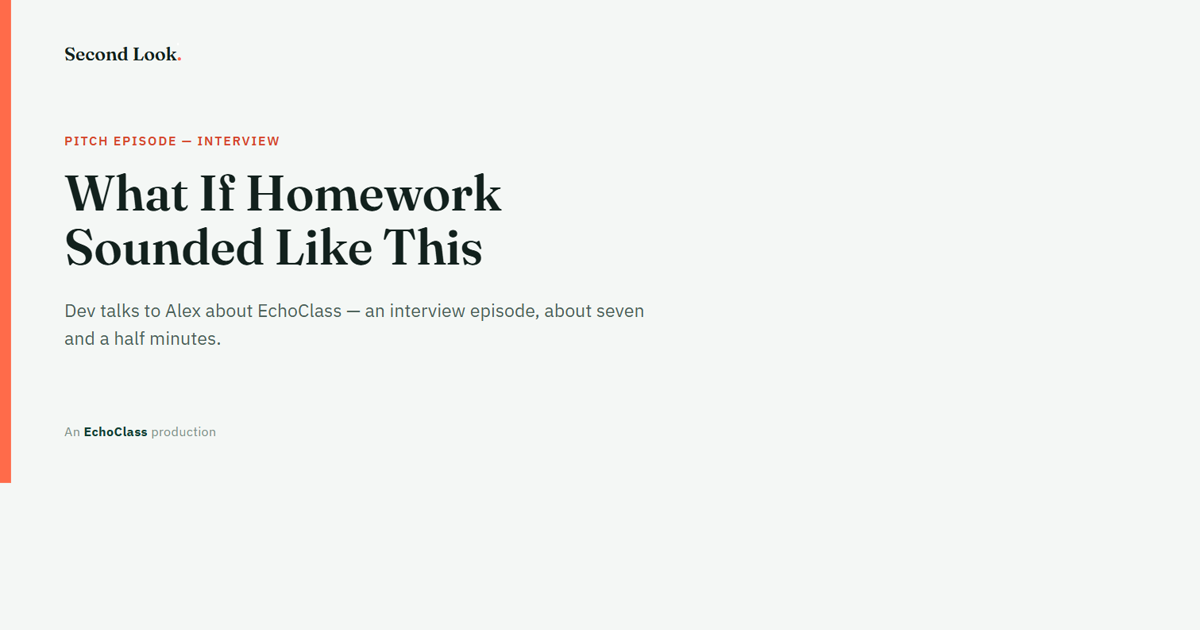
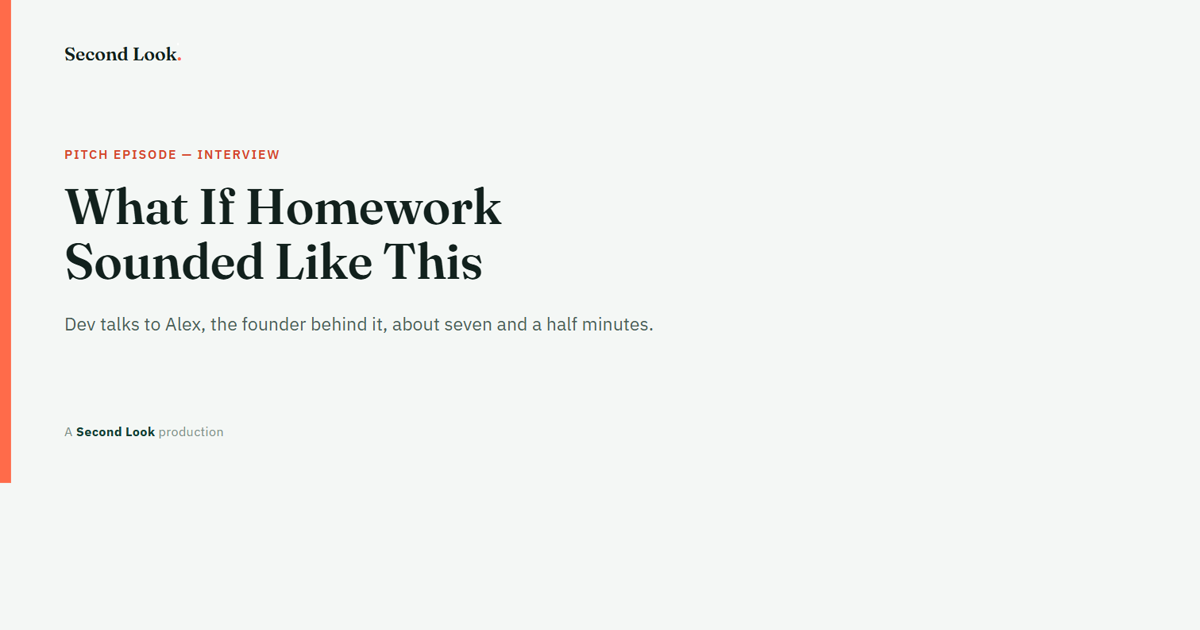
Rebrand from EchoClass to Second Look across all pages
EchoClass is already an existing company's name in this space. "Second Look"
was already established as the pitch episode's in-universe podcast name and
is well-liked, so it now doubles as the umbrella brand instead of introducing
a third name.

Swapped everywhere user-facing: page titles, OG/Twitter meta, footer copy,
the shared favicon (now an "S." monogram), and the two OG preview images
(regenerated from their HTML sources). Reworded "EchoClass's founder" to
"the founder behind it" on the pitch page rather than doing a literal
find-replace, since "Second Look's founder" would read as Alex having
founded the podcast Dev hosts, not her product.

Deliberately left untouched: the GitHub repo name, the live URL
(jarradkevin.github.io/echoclass-audio/...), the Firebase project, and the
Firestore collection name — renaming any of those breaks already-shared
links and is a separate, bigger decision.

Changed region(s): [[0.0308, 0.2111, 0.4317, 0.4524], [0.0308, 0.4825, 0.555, 0.5429], [0.0617, 0.6635, 0.185, 0.6937]]

diff --git a/webapp/index.html b/webapp/index.html
@@ -2,7 +2,7 @@
 <html lang="en">
 <head>
 <meta charset="utf-8" />
-<title>EchoClass — What's Actually Inside You Right Now</title>
+<title>Second Look — What's Actually Inside You Right Now</title>
 <meta name="viewport" content="width=device-width, initial-scale=1" />
 <meta name="description" content="BC Science 8 lesson episode: cells, with a synced transcript and end-of-episode quiz." />
 <link rel="canonical" href="https://jarradkevin.github.io/echoclass-audio/webapp/index.html" />
@@ -10,18 +10,18 @@
 
 <!-- Open Graph -->
 <meta property="og:type" content="website" />
-<meta property="og:site_name" content="EchoClass" />
-<meta property="og:title" content="EchoClass — What's Actually Inside You Right Now" />
+<meta property="og:site_name" content="Second Look" />
+<meta property="og:title" content="Second Look — What's Actually Inside You Right Now" />
 <meta property="og:description" content="A ~7-minute audio lesson on cell theory, with a synced transcript and a quick check-in." />
 <meta property="og:url" content="https://jarradkevin.github.io/echoclass-audio/webapp/index.html" />
 <meta property="og:image" content="https://jarradkevin.github.io/echoclass-audio/webapp/og/lesson.png" />
 <meta property="og:image:width" content="1200" />
 <meta property="og:image:height" content="630" />
-<meta property="og:image:alt" content="EchoClass — What's Actually Inside You Right Now" />
+<meta property="og:image:alt" content="Second Look — What's Actually Inside You Right Now" />
 
 <!-- Twitter -->
 <meta name="twitter:card" content="summary_large_image" />
-<meta name="twitter:title" content="EchoClass — What's Actually Inside You Right Now" />
+<meta name="twitter:title" content="Second Look — What's Actually Inside You Right Now" />
 <meta name="twitter:description" content="A ~7-minute audio lesson on cell theory, with a synced transcript and a quick check-in." />
 <meta name="twitter:image" content="https://jarradkevin.github.io/echoclass-audio/webapp/og/lesson.png" />
 
@@ -35,7 +35,7 @@
 </head>
 <body>
 <div class="topbar">
-  <div class="brand"><span class="brand-mark">EchoClass<span class="dot">.</span></span></div>
+  <div class="brand"><span class="brand-mark">Second Look<span class="dot">.</span></span></div>
   <span class="eyebrow">BC Science 8 — Cells</span>
 </div>
 <nav class="quick-nav" aria-label="Other episodes">

diff --git a/webapp/pitch.html b/webapp/pitch.html
@@ -4,15 +4,15 @@
 <meta charset="utf-8" />
 <title>Second Look — What If Homework Sounded Like This</title>
 <meta name="viewport" content="width=device-width, initial-scale=1" />
-<meta name="description" content="Second Look pitch episode: an interview with EchoClass's founder, with a synced transcript and a link to hear a full lesson episode." />
+<meta name="description" content="Second Look pitch episode: an interview with the founder behind it, with a synced transcript and a link to hear a full lesson episode." />
 <link rel="canonical" href="https://jarradkevin.github.io/echoclass-audio/webapp/pitch.html" />
 <link rel="icon" type="image/svg+xml" href="favicon.svg" />
 
 <!-- Open Graph -->
 <meta property="og:type" content="website" />
-<meta property="og:site_name" content="EchoClass" />
+<meta property="og:site_name" content="Second Look" />
 <meta property="og:title" content="Second Look — What If Homework Sounded Like This" />
-<meta property="og:description" content="Dev talks to Alex about EchoClass — an interview episode, about seven and a half minutes." />
+<meta property="og:description" content="Dev talks to Alex, the founder behind it, about why homework doesn't tell anyone what actually landed — an interview episode, about seven and a half minutes." />
 <meta property="og:url" content="https://jarradkevin.github.io/echoclass-audio/webapp/pitch.html" />
 <meta property="og:image" content="https://jarradkevin.github.io/echoclass-audio/webapp/og/pitch.png" />
 <meta property="og:image:width" content="1200" />
@@ -22,7 +22,7 @@
 <!-- Twitter -->
 <meta name="twitter:card" content="summary_large_image" />
 <meta name="twitter:title" content="Second Look — What If Homework Sounded Like This" />
-<meta name="twitter:description" content="Dev talks to Alex about EchoClass — an interview episode, about seven and a half minutes." />
+<meta name="twitter:description" content="Dev talks to Alex, the founder behind it, about why homework doesn't tell anyone what actually landed — an interview episode, about seven and a half minutes." />
 <meta name="twitter:image" content="https://jarradkevin.github.io/echoclass-audio/webapp/og/pitch.png" />
 
 <meta name="theme-color" content="#ff6b4a" media="(prefers-color-scheme: light)" />
@@ -52,7 +52,7 @@
   <span class="sep">·</span>
   <a href="index.html?screen=quiz">Quiz</a>
 </nav>
-<footer class="foot wrap">An EchoClass production. Not a classroom assignment — just have a listen.</footer>
+<footer class="foot wrap">A Second Look production. Not a classroom assignment — just have a listen.</footer>
 
 <script type="module" src="pitch.js"></script>
 </body>

diff --git a/webapp/teacher.html b/webapp/teacher.html
@@ -2,9 +2,9 @@
 <html lang="en">
 <head>
 <meta charset="utf-8" />
-<title>EchoClass — Teacher Dashboard</title>
+<title>Second Look — Teacher Dashboard</title>
 <meta name="viewport" content="width=device-width, initial-scale=1" />
-<meta name="description" content="Live results dashboard for the EchoClass cells lesson episode." />
+<meta name="description" content="Live results dashboard for the Second Look cells lesson episode." />
 <meta name="robots" content="noindex, nofollow" />
 <link rel="icon" type="image/svg+xml" href="favicon.svg" />
 <meta name="theme-color" content="#1f6f5c" media="(prefers-color-scheme: light)" />
@@ -16,7 +16,7 @@
 </head>
 <body>
 <div class="topbar">
-  <div class="brand"><span class="brand-mark">EchoClass<span class="dot">.</span></span></div>
+  <div class="brand"><span class="brand-mark">Second Look<span class="dot">.</span></span></div>
   <span class="eyebrow">Teacher Dashboard — Cells</span>
 </div>
 

diff --git a/webapp/og/lesson-card.html b/webapp/og/lesson-card.html
@@ -72,11 +72,11 @@
 <body>
   <div class="card">
     <div class="accent-bar"></div>
-    <div class="brand">EchoClass<span class="dot">.</span></div>
+    <div class="brand">Second Look<span class="dot">.</span></div>
     <div class="eyebrow">Lesson Episode — BC Science 8</div>
     <h1>What's Actually Inside You Right Now</h1>
     <p>A ~7-minute audio lesson on cell theory, with a synced transcript and a quick check-in.</p>
-    <div class="footer-mark"><strong>EchoClass</strong> — audio-first learning</div>
+    <div class="footer-mark"><strong>Second Look</strong> — audio-first learning</div>
   </div>
 </body>
 </html>

diff --git a/webapp/og/pitch-card.html b/webapp/og/pitch-card.html
@@ -75,8 +75,8 @@
     <div class="brand">Second Look<span class="dot">.</span></div>
     <div class="eyebrow">Pitch Episode — Interview</div>
     <h1>What If Homework Sounded Like This</h1>
-    <p>Dev talks to Alex about EchoClass — an interview episode, about seven and a half minutes.</p>
-    <div class="footer-mark">An <strong>EchoClass</strong> production</div>
+    <p>Dev talks to Alex, the founder behind it, about seven and a half minutes.</p>
+    <div class="footer-mark">A <strong>Second Look</strong> production</div>
   </div>
 </body>
 </html>

diff --git a/webapp/pitch.js b/webapp/pitch.js
@@ -33,7 +33,7 @@ function renderPage() {
     <div class="pitch-intro">
       <span class="eyebrow">Second Look — Interview</span>
       <h1>What If Homework Sounded Like This</h1>
-      <p>Dev talks to Alex, EchoClass's founder, about why homework doesn't tell anyone what actually landed — and what an episode-shaped alternative looks like. About seven and a half minutes.</p>
+      <p>Dev talks to Alex, the founder behind it, about why homework doesn't tell anyone what actually landed — and what an episode-shaped alternative looks like. About seven and a half minutes.</p>
       <p class="format-note">This is an interview, not a classroom lesson — no quiz at the end. Press play, or follow along below.</p>
     </div>
     <div class="begin-lesson-wrap" id="begin-wrap">

diff --git a/webapp/README-webapp.md b/webapp/README-webapp.md
@@ -1,4 +1,4 @@
-# EchoClass web app — setup notes
+# Second Look web app — setup notes
 
 ## Firestore security rules (paste in step 2 below)
 